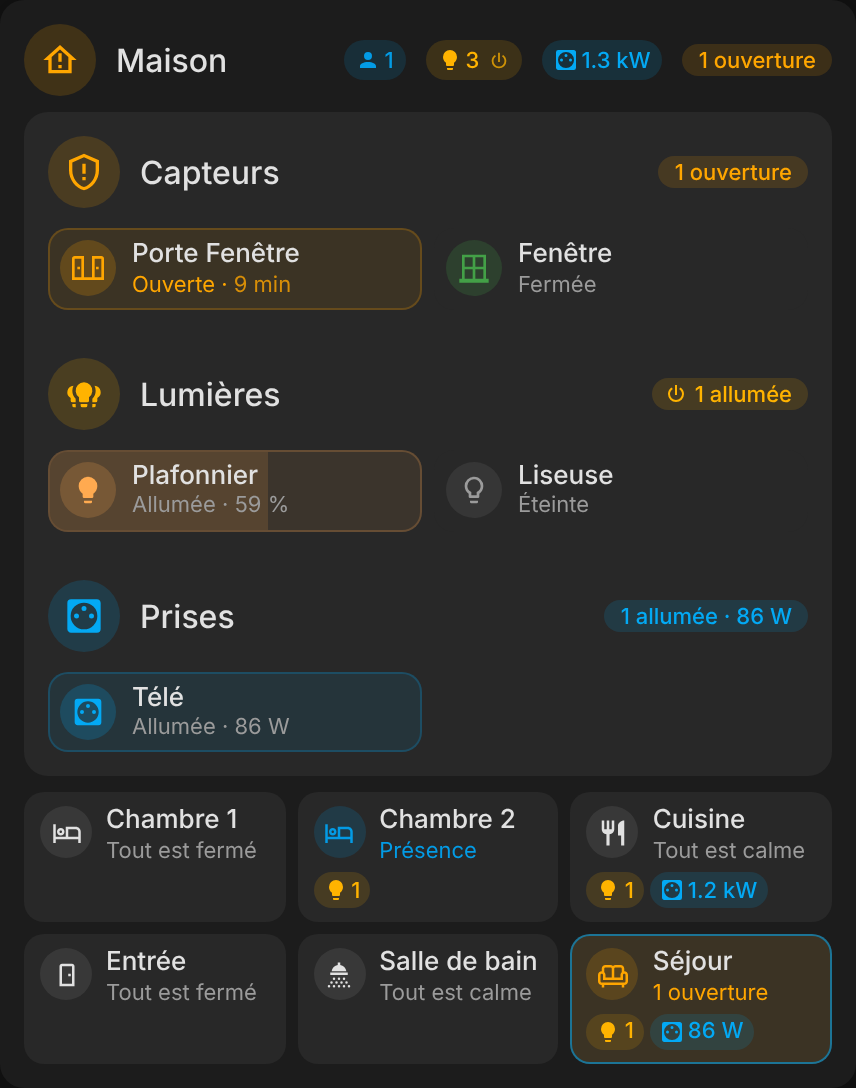
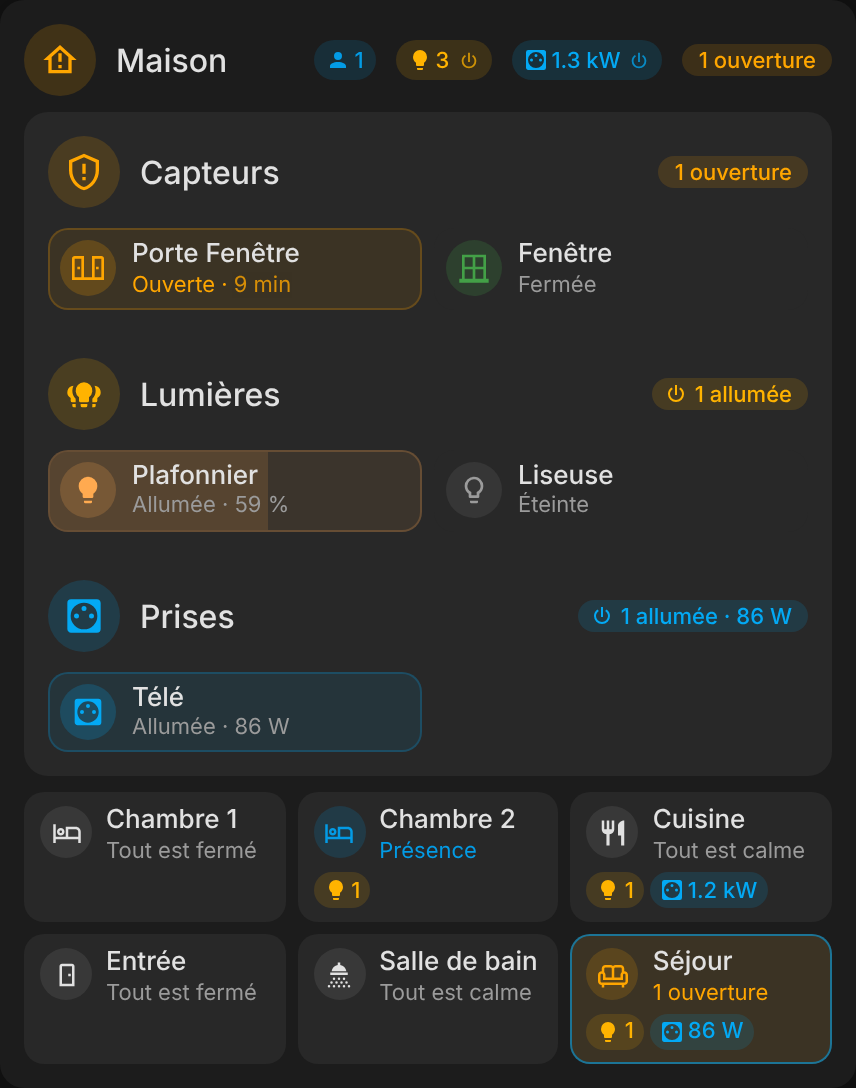
Turn every plug off from the overview header (1.6.0) (#6)
* feat: turn every plug off from the overview header (1.6.0)

`plugs_off_button` makes the overview's plugs chip a button that turns
off every plug the card counts, like the lights chip, and gives the
Plugs card of the room details its turn-everything-off pill. Off by
default: a plug may feed a camera or a network switch.

Claude-Session: https://claude.ai/code/session_01QaLH1ufp6vNCirvqvDZ5yU

* docs: overview screenshots with the turn-all-plugs-off chip

Claude-Session: https://claude.ai/code/session_01QaLH1ufp6vNCirvqvDZ5yU

---------

Changed region(s): [[0.3645, 0.0312, 0.7593, 0.0938], [0.6682, 0.5312, 0.729, 0.5938]]

diff --git a/src/room-overview-card.js b/src/room-overview-card.js
@@ -29,6 +29,7 @@ const RO_I18N = {
     lights_on: "Lights on",
     plugs_on: "Plugs on",
     turn_lights_off: "Turn all lights off",
+    turn_plugs_off: "Turn all plugs off",
     rooms_occupied: "Occupied rooms",
     sensors: "Sensors",
     lights: "Lights",
@@ -45,6 +46,9 @@ const RO_I18N = {
     ed_only_active_helper: "Only rooms with something open, on or detected stay visible",
     ed_all_off_button: "“Turn all lights off” button",
     ed_all_off_button_helper: "Tapping the lights chip of the header turns every light the card counts off",
+    ed_plugs_off_button: "“Turn all plugs off” button",
+    ed_plugs_off_button_helper:
+      "Tapping the plugs chip of the header turns every plug the card counts off; also on the Plugs card of the room details. Off by default: a plug may feed a camera or a network switch",
     ed_sort: "Sort",
     ed_sort_name: "By name",
     ed_sort_state: "Rooms needing attention first",
@@ -59,6 +63,7 @@ const RO_I18N = {
     lights_on: "Lumières allumées",
     plugs_on: "Prises allumées",
     turn_lights_off: "Éteindre toutes les lumières",
+    turn_plugs_off: "Éteindre toutes les prises",
     rooms_occupied: "Pièces occupées",
     sensors: "Capteurs",
     lights: "Lumières",
@@ -75,6 +80,9 @@ const RO_I18N = {
     ed_only_active_helper: "Seules les pièces avec quelque chose d'ouvert, d'allumé ou de détecté restent affichées",
     ed_all_off_button: "Bouton « Éteindre toutes les lumières »",
     ed_all_off_button_helper: "Un tap sur la pastille des lumières de l'en-tête éteint toutes les lumières comptées par la carte",
+    ed_plugs_off_button: "Bouton « Éteindre toutes les prises »",
+    ed_plugs_off_button_helper:
+      "Un tap sur la pastille des prises de l'en-tête éteint toutes les prises comptées par la carte ; aussi sur la carte Prises du détail des pièces. Désactivé par défaut : une prise peut alimenter une caméra ou un switch réseau",
     ed_sort: "Tri",
     ed_sort_name: "Par nom",
     ed_sort_state: "Pièces à surveiller en premier",
@@ -94,7 +102,16 @@ const roRoomIcon = (area) => {
 class RoomOverviewCard extends RcCard {
   static tag = "room-overview-card";
   static i18n = RO_I18N;
-  static defaults = { presence: true, only_active: false, all_off_button: true, sort: "name", exclude_areas: [], exclude: [], rooms: [] };
+  static defaults = {
+    presence: true,
+    only_active: false,
+    all_off_button: true,
+    plugs_off_button: false,
+    sort: "name",
+    exclude_areas: [],
+    exclude: [],
+    rooms: [],
+  };
 
   static getStubConfig() {
     return {};
@@ -246,9 +263,11 @@ class RoomOverviewCard extends RcCard {
         <style>${RC_BASE_STYLES}${RoomOverviewCard.styles}</style>
         <ha-card><div class="head"></div><div class="panel" hidden></div><div class="grid"></div></ha-card>`;
       this.shadowRoot.querySelector(".head").addEventListener("click", (ev) => {
-        if (!ev.target.closest(".chip.action")) return;
+        const button = ev.target.closest(".chip.action");
+        if (!button) return;
         ev.stopPropagation();
-        const ids = this._rooms.flatMap((x) => x.lights.filter((e) => e.st.state === "on").map((e) => e.id));
+        const kind = button.dataset.kind === "plugs" ? "plugs" : "lights";
+        const ids = this._rooms.flatMap((x) => x[kind].filter((e) => e.st.state === "on").map((e) => e.id));
         if (ids.length) rcCall(this._hass, "homeassistant", "turn_off", { entity_id: ids });
       });
       this.shadowRoot.querySelector(".grid").addEventListener("click", (ev) => {
@@ -269,6 +288,10 @@ class RoomOverviewCard extends RcCard {
 
     const chip = (cls, icon, label, text) =>
       `<span class="chip ${cls}" title="${rcEsc(label)}"><ha-icon icon="${icon}"></ha-icon>${text ? `<span>${rcEsc(text)}</span>` : ""}</span>`;
+    // Header chip that turns everything of its kind off when tapped.
+    const offChip = (cls, kind, icon, label, text) =>
+      `<button class="chip ${cls} action" data-kind="${kind}" title="${rcEsc(label)}"><ha-icon icon="${icon}"></ha-icon><span>${rcEsc(text)}</span><ha-icon class="off" icon="mdi:power"></ha-icon></button>`;
+    const plugText = watts != null ? rcWatts(watts) : String(plugs);
 
     const card = this.shadowRoot.querySelector("ha-card");
     card.className = `lvl-${level}`;
@@ -279,11 +302,17 @@ class RoomOverviewCard extends RcCard {
       ${
         lights
           ? c.all_off_button !== false
-            ? `<button class="chip light action" title="${rcEsc(this._t("turn_lights_off"))}"><ha-icon icon="mdi:lightbulb"></ha-icon><span>${lights}</span><ha-icon class="off" icon="mdi:power"></ha-icon></button>`
+            ? offChip("light", "lights", "mdi:lightbulb", this._t("turn_lights_off"), String(lights))
             : chip("light", "mdi:lightbulb", this._t("lights_on"), String(lights))
           : ""
       }
-      ${plugs ? chip("plug", "mdi:power-socket-fr", this._t("plugs_on"), watts != null ? rcWatts(watts) : String(plugs)) : ""}
+      ${
+        plugs
+          ? c.plugs_off_button
+            ? offChip("plug", "plugs", "mdi:power-socket-fr", this._t("turn_plugs_off"), plugText)
+            : chip("plug", "mdi:power-socket-fr", this._t("plugs_on"), plugText)
+          : ""
+      }
       <div class="pill">${rcEsc(status)}</div>`;
 
     const cols = Number(c.columns);
@@ -364,7 +393,7 @@ class RoomOverviewCard extends RcCard {
     const parts = [
       ["room-sensors-card", x.sensors.length + x.presence.length, { title: this._t("sensors"), presence: this._config.presence }],
       ["room-lights-card", x.lights.length, { title: this._t("lights") }],
-      ["room-switch-card", x.plugs.length, { title: this._t("plugs") }],
+      ["room-switch-card", x.plugs.length, { title: this._t("plugs"), all_off_button: this._config.plugs_off_button === true }],
     ];
     for (const [tag, count, extra] of parts) {
       if (!count || !customElements.get(tag)) continue;
@@ -494,7 +523,7 @@ const roExcludeField = (hass, config) => {
 
 const RoomOverviewCardEditor = rcEditor({
   card: RoomOverviewCard,
-  helpers: ["title", "columns", "presence", "only_active", "all_off_button", "exclude"],
+  helpers: ["title", "columns", "presence", "only_active", "all_off_button", "plugs_off_button", "exclude"],
   schema: (lang, hass, config) => [
     { name: "title", selector: { text: {} } },
     { name: "columns", selector: { number: { min: 1, max: 6, mode: "box" } } },
@@ -513,6 +542,7 @@ const RoomOverviewCardEditor = rcEditor({
     { name: "presence", selector: { boolean: {} } },
     { name: "only_active", selector: { boolean: {} } },
     { name: "all_off_button", selector: { boolean: {} } },
+    { name: "plugs_off_button", selector: { boolean: {} } },
     {
       name: "exclude_areas",
       // The rooms the card finds, excluded ones included.

diff --git a/README.md b/README.md
@@ -32,7 +32,7 @@ All four cards share the same look (header with a status pill, compact tiles), a
 - One compact tile per room, coloured by what matters most: *Water leak* (red, blinking), *1 open* (orange), *Presence* (blue), otherwise *All closed* / *All quiet*
 - Small chips on each tile for the lights that are on, the plugs that are on with their power draw, and presence when an alert is already shown
 - Header with the home status and totals: occupied rooms, lights on, power drawn by the plugs
-- **Tap** the lights chip of the header to turn every light the card counts off (`all_off_button`)
+- **Tap** the lights chip of the header to turn every light the card counts off (`all_off_button`), and the plugs chip to turn every plug off (`plugs_off_button`, off by default: a plug may feed a camera or a network switch)
 - **Tap** a room to unfold its details at the top of the card: the Sensors, Lights and Plugs cards of that room; tap it again or anywhere else to fold it back
 - Automatic discovery: every area with door, window, leak or presence sensors, lights or plugs becomes a room, with an icon picked from its name
 - Same rules as the room cards: camera detections, configuration entities and light groups are skipped, light switches count as lights
@@ -154,6 +154,7 @@ sort: name
 presence: true
 only_active: false
 all_off_button: true
+plugs_off_button: false
 exclude_areas:
   - garage
 exclude:
@@ -178,6 +179,7 @@ rooms:
 | `presence` | ❌ | `true` | Include the presence and motion sensors (camera detections are always left out) |
 | `only_active` | ❌ | `false` | Show only the rooms with something open, on or detected |
 | `all_off_button` | ❌ | `true` | Tapping the lights chip of the header turns every light the card counts off |
+| `plugs_off_button` | ❌ | `false` | Tapping the plugs chip of the header turns every plug the card counts off; the Plugs card of the room details gets its turn-everything-off pill too. Off by default: a plug may feed a camera or a network switch, leave those out with `exclude` |
 | `exclude_areas` | ❌ | — | Rooms left out; the visual editor only offers the rooms the card finds |
 | `exclude` | ❌ | — | Entities left out of the tiles, the totals and the room details; the visual editor only offers the entities the card counts in the rooms it shows |
 | `rooms` | ❌ | — | Room order and overrides, see below; the other rooms follow |

diff --git a/CHANGELOG.md b/CHANGELOG.md
@@ -1,5 +1,10 @@
 # Changelog
 
+## 1.6.0
+
+### What's new
+- Overview: `plugs_off_button` turns every plug off from the header, like the lights: the plugs chip becomes a button (with a power icon) that turns off every plug the card counts, and the Plugs card of the room details gets its turn-everything-off pill. Off by default, since a plug may feed a camera or a network switch: leave those out with `exclude`. In the visual editor: *“Turn all plugs off” button*.
+
 ## 1.5.0
 
 ### Fixes
